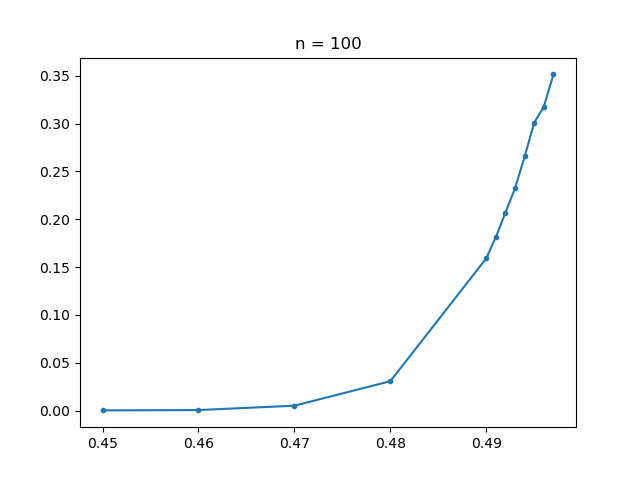
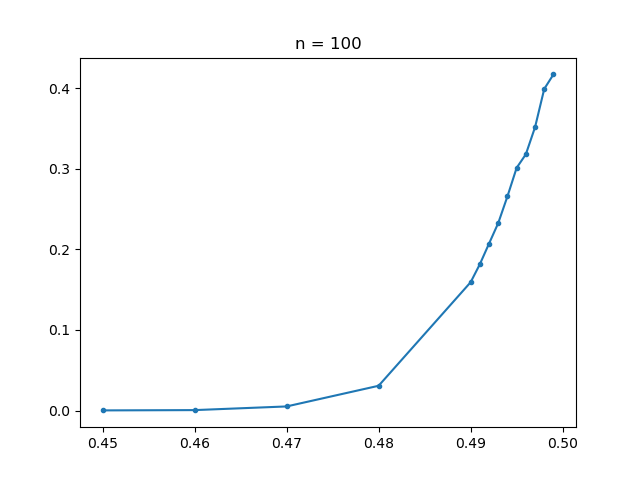
update

diff --git a/stat_.py b/stat_.py
@@ -1,0 +1,40 @@
+import pickle 
+import os
+import numpy as np
+import matplotlib.pyplot as plt
+
+import statsmodels.api as sm
+
+import pandas as pd
+
+
+with open(os.path.join(os.getcwd(), "data.pkl"), "rb") as fp:
+    data = pickle.load(fp)
+
+
+
+for n in data.keys():
+    print(data[n])
+
+    X = np.array(list(data[n].keys()))
+    Y = np.array([data[n][p] for p in X])
+    x_ = -1*np.log(0.5-X)
+    y_ = np.log(Y)
+
+    df = pd.DataFrame({"x":x_, "y":y_})
+    xdf = df["x"]
+    ydf = df["y"]
+    xdf = sm.add_constant(xdf)
+    model = sm.OLS(ydf, xdf).fit()
+    print(model.summary())
+    m = model.params.iloc[1]
+    c = model.params.iloc[0]
+    a = np.linspace(np.min(x_)-1, np.max(x_)+1, 1000)
+    b = m*a +c
+    plt.plot(a,b)
+    plt.plot(x_, y_, 'o')
+    plt.savefig("regress.png")
+    plt.close()
+
+
+

diff --git a/compile_all_data.py b/compile_all_data.py
@@ -26,13 +26,17 @@ for rec_file in rec_files:
 
 corr_length_rec = {}
 for n in full_rec.keys():
-    p_vals = np.array(sorted(list(full_rec[n].keys())))
+    p_range = np.array(sorted(list(full_rec[n].keys())))
     density = []
     corr_length_rec[n] = {}
-    for p in p_vals:
+    p_vals = []
+    for p in p_range:
+        # if p>0.49:continue
+        p_vals.append(p)
         density.append(full_rec[n][p]["hits"]/full_rec[n][p]["trials_done"])
         corr_length_rec[n][p] = -n*(1/np.log(density[-1]))
     density = np.array(density)
+    p_vals = np.array(p_vals)
     print(p_vals, density)
     plt.plot(p_vals, density, '.-')
     plt.title(f"n = {n}")

diff --git a/seqn.py b/seqn.py
@@ -8,5 +8,7 @@ import corr_length
 p_mesh = [0.45, 0.46, 0.47, 0.48, 0.49]
 p_fine_mesh = [0.491, 0.492, 0.493, 0.494, 0.495, 0.496, 0.497, 0.498, 0.499]
 
+for p in p_mesh:
+    corr_length.main(p, n = 100, multiplier = 1.2, num_trials = 50000, num_processes = 5)
 for p in p_fine_mesh:
-    corr_length.main(p, n = 100, multiplier = 1.2, num_trials = 10000, num_processes = 5)
+    corr_length.main(p, n = 100, multiplier = 1.2, num_trials = 50000, num_processes = 5)
